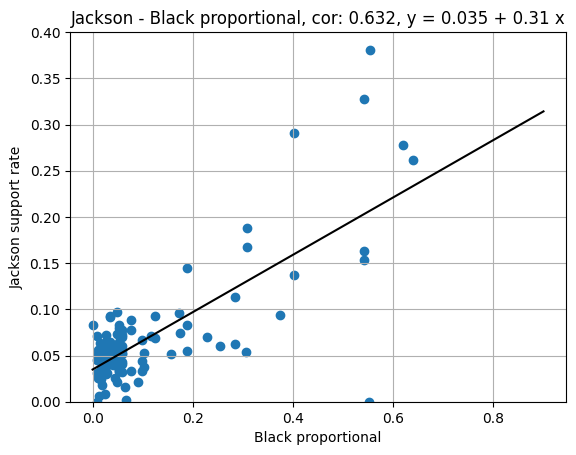
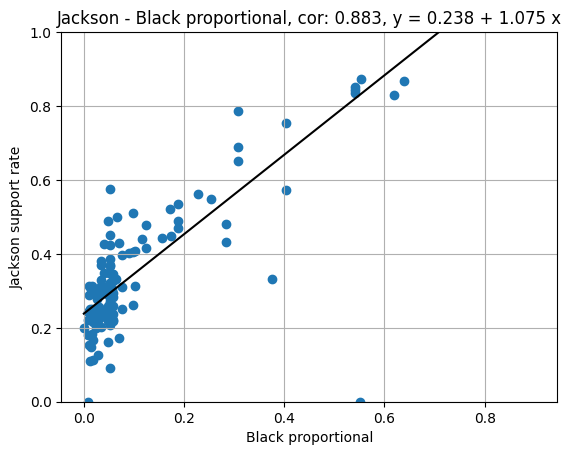
15h19 08/06/2023

diff --git a/main.tex b/main.tex
@@ -341,6 +341,8 @@ def linear_correlation(x: np.ndarray, y: np.ndarray, w: np.ndarray):
     return weighted_corr_coef
 \end{python}
 
+    \textbf{Tập dữ liệu 1:}
+
     \begin{figure}[H]
         \centering
         \includegraphics[width=0.6\textwidth]{figures/primary_df.png}
@@ -371,10 +373,10 @@ def linear_correlation(x: np.ndarray, y: np.ndarray, w: np.ndarray):
     \end{figure}
 
     Ta sử dụng mô hình hồi quy tuyến tính để mô hình hóa mối liên hệ giữa tỷ lệ phiếu bầu cho ứng cử viên Jackson tại từng khu vực theo tỷ lệ người da đen hoặc người gốc Tây Ban Nha ở hai hình \ref{fig:Jackson_support_rate_Black_proportional_Dataset_1} và \ref{fig:Jackson_support_rate_Hispanic_proportional_Dataset_1}.
-    Khi tỷ lệ người da đen hoặc tỷ lệ người gốc Tây Ban Nha tăng thì tỷ lệ phiếu bầu cho ứng cử viên Jackson cũng tăng nhưng tốc độ tăng là không nhiều.
-    Nếu ta giả sử ở một khu vực tỷ lệ người da đen là 100 \% thì tỷ lệ phiếu bầu dự đoán cho ứng cử viên Jackson là $0.035 + 0.31 \times 1=0.3135$.
-    Mặt khác, nếu ở một khu vực tỷ lệ người gốc Tây Ban Nha chiếm 100 \% thì tỷ lệ phiếu bầu dự đoán cho ứng cử viên Jackson là $0.039+0.134 \times 1=0.173$.
-    Như vậy hai tỷ lệ dự đoán trên vẫn quá thấp để ứng cử viên Jackson có thể thắng cử tại các khu vực này.
+    Khi tỷ lệ người da đen hoặc tỷ lệ người gốc Tây Ban Nha tăng thì tỷ lệ phiếu bầu cho ứng cử viên Jackson cũng tăng khá mạnh.
+    Nếu ta giả sử ở một khu vực tỷ lệ người da đen là 100 \% thì tỷ lệ phiếu bầu dự đoán cho ứng cử viên Jackson là $0.238 + 1.075 \times 1 > 1$ (ta xem như bằng 1).
+    Mặt khác, nếu ở một khu vực tỷ lệ người gốc Tây Ban Nha chiếm 100 \% thì tỷ lệ phiếu bầu dự đoán cho ứng cử viên Jackson là $0.202+0.807 \times 1 > 1$ (ta xem như bằng 1).
+    Như vậy hai tỷ lệ dự đoán trên rất cao để ứng cử viên Jackson có thể thắng cử tại các khu vực này.
 
     \begin{figure}[H]
         \centering
@@ -391,17 +393,19 @@ def linear_correlation(x: np.ndarray, y: np.ndarray, w: np.ndarray):
     \end{figure}
 
     Hình \ref{fig:Predominant_black} và \ref{fig:Predominant_hispanic} lọc ra các khu vực mà người da đen hoặc người gốc Tây Ban Nha chiếm đa số.
-    Ở những khu vực có người da đen chiếm đa số chỉ có khu vực 11313 là có tỷ lệ ủng hộ ứng cử viên Jackson khoảng 38 \%, còn lại tất cả các khu vực khác đều có tỷ lệ ủng hộ ứng cử viên Jackson nhỏ hơn 30\%.
-    Ở các khu vực có người gốc Tây Ban Nha chiếm đa số thì tỷ lệ ủng hộ ứng cử viên Jackson rất thấp chỉ khoảng 6 - 7\%.
+    Ở những khu vực có người da đen chiếm đa số chỉ có khu vực 11132 là có tỷ lệ ủng hộ ứng cử viên Jackson là 0 \%, còn lại tất cả các khu vực khác đều có tỷ lệ ủng hộ ứng cử viên Jackson lớn hơn 80\%.
+    Ở các khu vực có người gốc Tây Ban Nha chiếm đa số thì tỷ lệ ủng hộ ứng cử viên Jackson đều trên 50 \%.
 
-    Như vậy ta thấy từ tập dữ liệu 1, bên nguyên đơn sẽ không thể nào chứng minh được sự cấu thành của điều kiện thứ 2 và điều kiện thứ 3 mà tòa án tối cao đưa ra.
-    Tỷ lệ trong nhóm người da đen hoặc người gốc Tây Ban Nha ủng hộ ứng cứ viên Jackson vẫn rất thấp.
-    Trong những khu vực người da đen chiếm đa số tỷ lệ người ủng hộ ứng cử viên Jackson không đủ cao hay trong những khu vực người gốc Tây Ban Nha ủng hộ ứng cử viên Jackson lại vô cùng thấp.
+    Như vậy ta thấy từ tập dữ liệu 1, tỷ lệ số phiếu ủng hộ ứng cử viên Jackson ở bước sơ bộ trong các khu vực người da đen hoặc người gốc Tây Ban Nha chiếm đa số đều khiến ứng cử viên Jackson thắng cử.
+    Tuy nhiên dữ liệu trên không hề có dữ liệu chi tiết về các thông tin khác của các cử tri (chủng tộc, thu nhập), vì vậy ta cũng chưa thể đủ căn cứ để bên nguyên đơn chứng minh được ba điều cần cấu thành để chứng minh dự luật C đã vi phạm Đạo luật về quyền bầu cử mà tòa án tối cao yêu cầu.
+    Vì vậy ta cần phân tích tập dữ liệu thứ 2.
+
+    \textbf{Tập dữ liệu thứ 2:}
 
     \begin{figure}[H]
         \centering
         \includegraphics[width=0.6\textwidth]{figures/vote_df.png}
-        \caption{Dataframe tập dữ liệu 2}
+        \caption{Dataframe tập dữ liệu thứ 2}
         \label{fig:vote_df}
     \end{figure}
 
@@ -569,7 +573,7 @@ def candidate_overall_support(df: pd.DataFrame):
         \item Nhóm những người thiểu số ở trong một khu vực có xu hướng bị ảnh hưởng bởi quan điểm chính trị của nhóm người chiếm đa số trong khu vực (củng cố giả định láng giếng).
     \end{itemize}
 
-    Từ tập dữ liệu thứ nhất, bên nguyên đơn chưa có cơ sở để cáo buộc rằng dự luật C đã vi phạm Đạo luật về quyền bầu cử
+    Từ tập dữ liệu thứ nhất, bên nguyên đơn chưa có cơ sở để cáo buộc rằng dự luật C đã vi phạm Đạo luật về quyền bầu cử.
     Từ tập dữ liệu thứ hai (trong cuộc thăm dò dư luận), ta thấy rõ ràng nếu vẫn theo hình thức bầu cử cũ, tại những khu vực tỷ lệ người da đen cao thì những ứng cử viên mà người da đen đa số ủng hộ sẽ nhiều cơ hội thắng cử hơn hình thức bầu cử hai bước mới theo dự luật C.
     Như vậy, bên nguyên đơn hoàn toàn có căn cứ để cáo buộc rằng dự luật C đã vi phạm Đạo luật về quyền bầu cử vì đã cấu thành từ các phân tích trên nhóm người da đen đã cấu thành ba điều mà tòa án tối cao đã yêu cầu bên nguyên đơn phải chứng minh:
 
